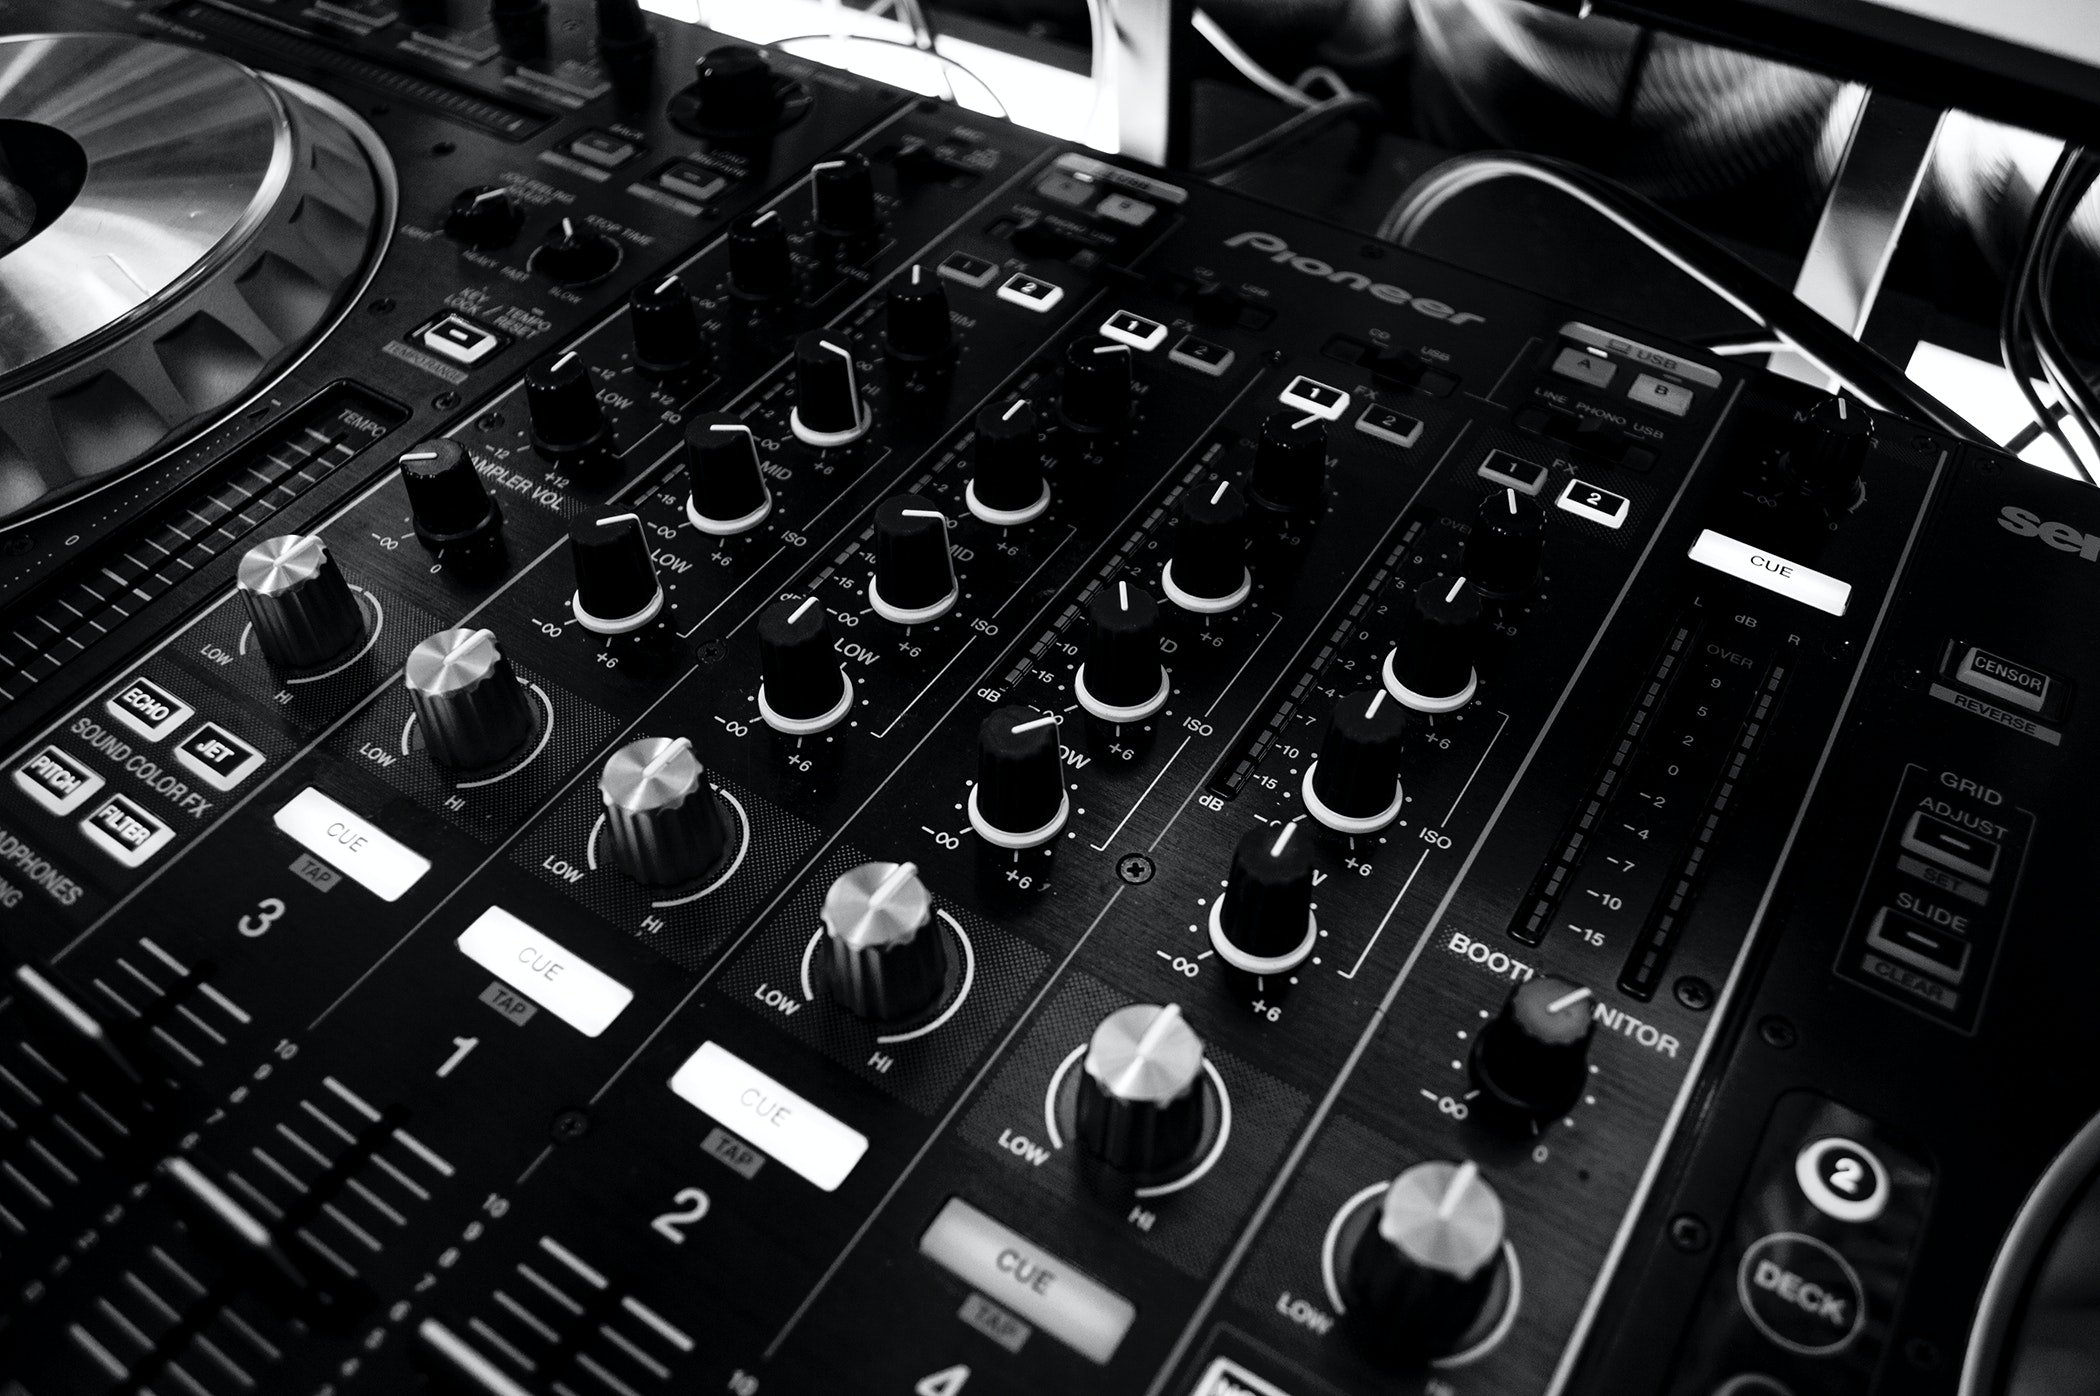
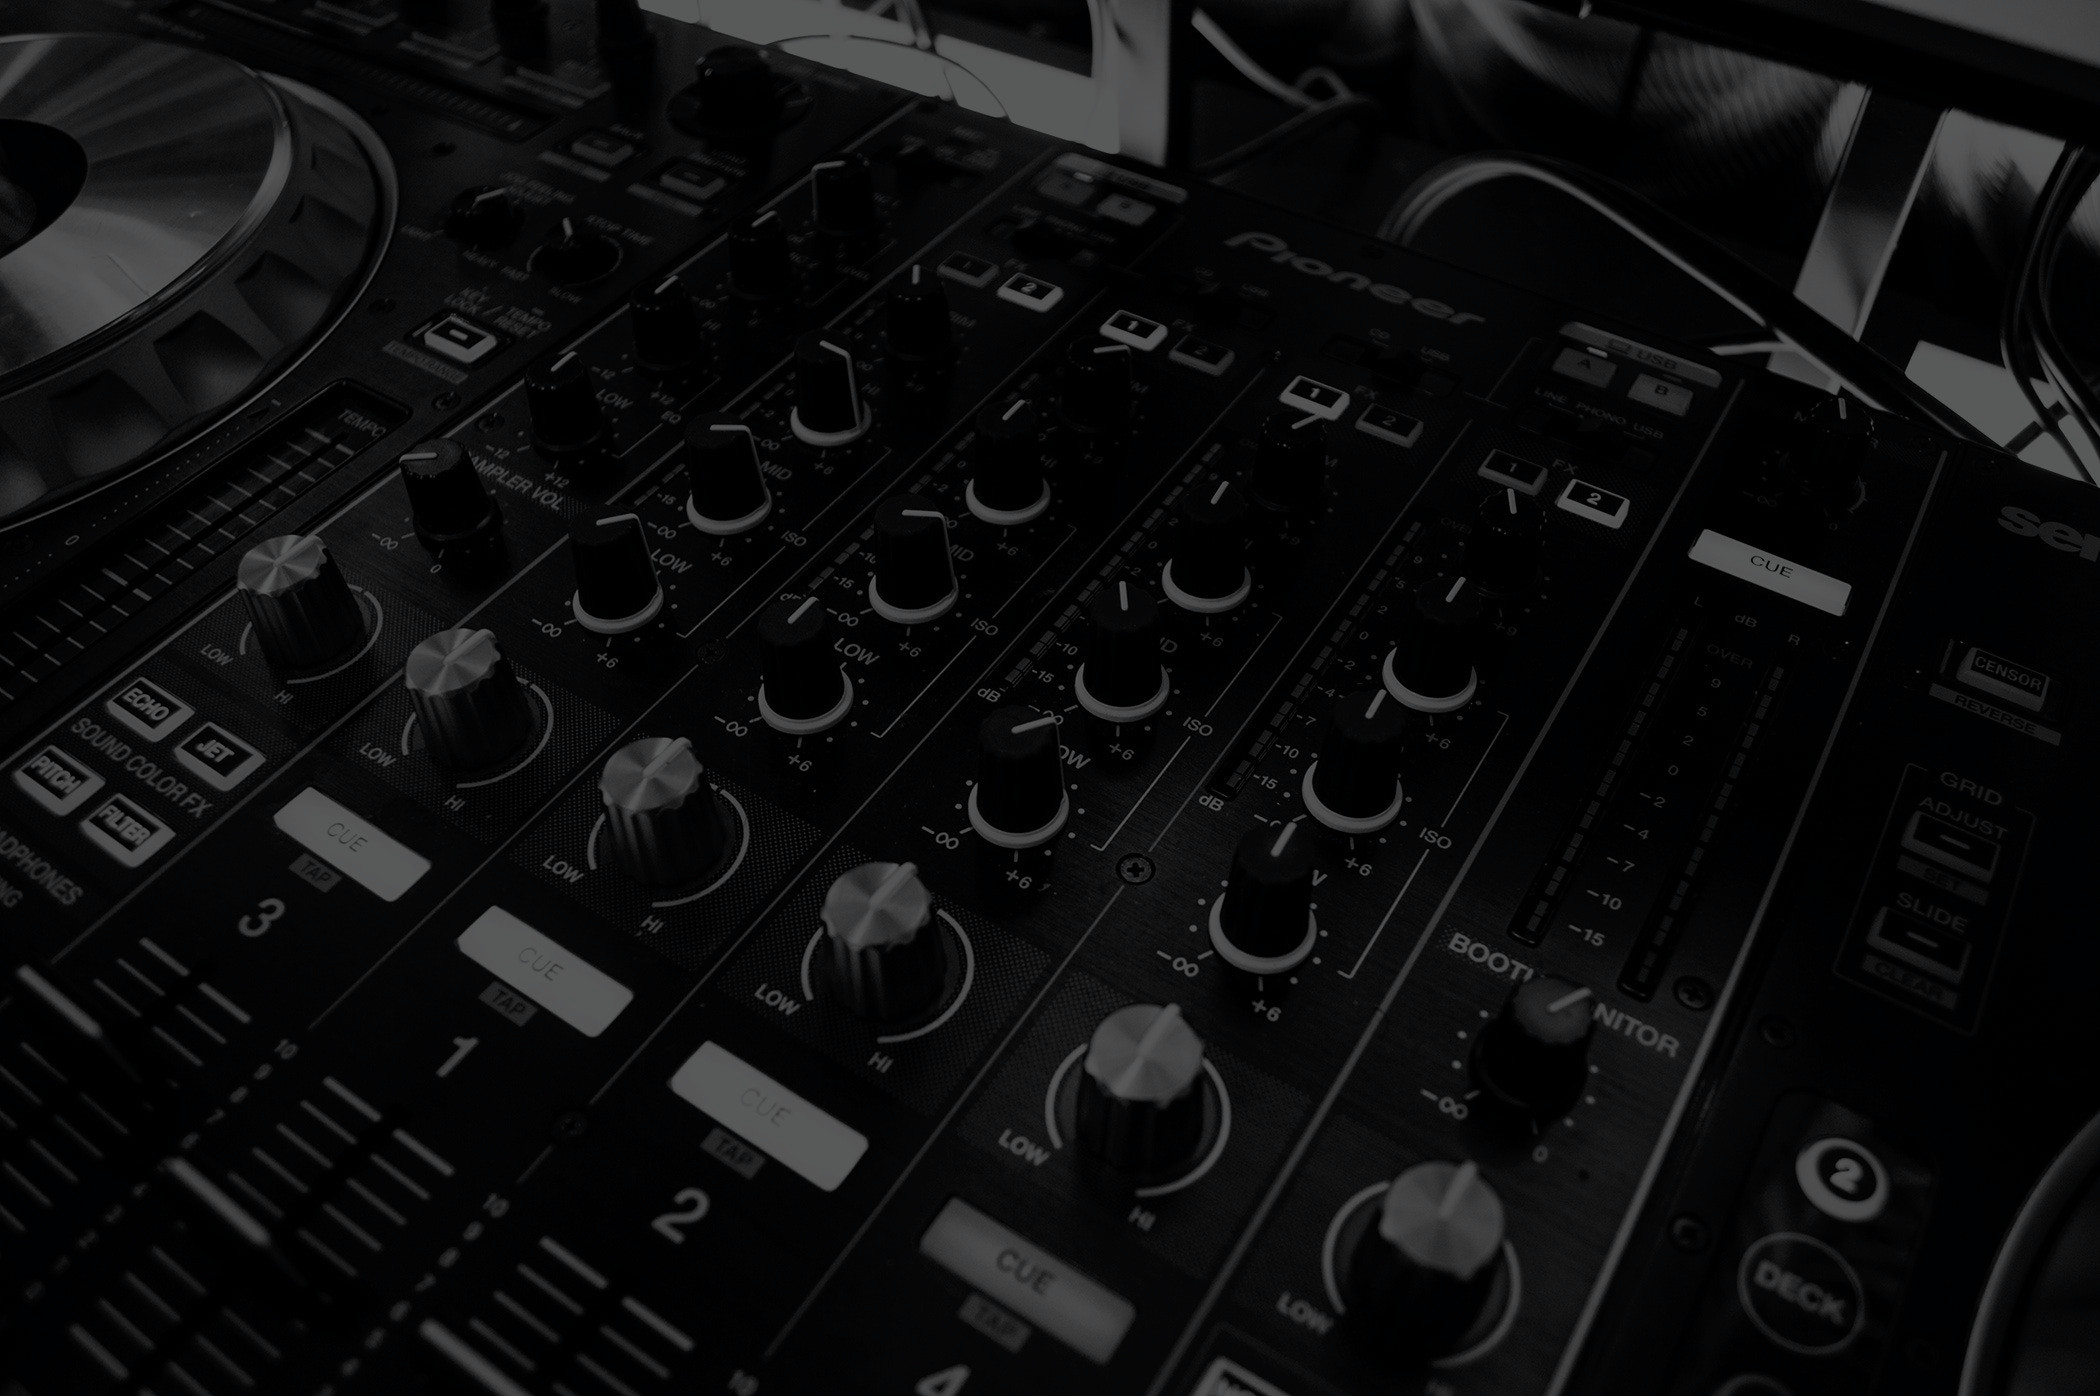
revamp styles

diff --git a/src/App.tsx b/src/App.tsx
@@ -9,6 +9,18 @@ import RoomButtons from "./components/RoomButtons";
 import { connectToRoom, createRoom } from "./redux/room/actions";
 import { GlobalState } from "./redux/store";
 
+import Container from '@material-ui/core/Container'
+import Typography from '@material-ui/core/Typography'
+
+import HelpButton from './components/HelpButton'
+
+import background from './assets/background.jpg'
+import backgroundDark from './assets/background-dark.jpg'
+import backgroundDarker from './assets/background-darker.jpg'
+import { createStyles, Theme } from "@material-ui/core";
+
+
+
 interface EnsureLoginProps {
   token?: string | null;
   children: any;
@@ -65,6 +77,33 @@ const mapStateToProps = (state: GlobalState) => ({
 const mapDispatchToProps = {
   createRoom,
   connectToRoom,
-};
+}
+
+const styles = (theme: Theme) => 
+  createStyles({
+    main: {
+      backgroundImage: `url('${background}')`,
+      height: '100%',
+      width: '100%',
+    },
+    header: {
+      textAlign: 'center',
+      marginBottom: 64,
+      fontSize: 128
+    },
+    container: {
+      padding: 64,
+      display: 'flex',
+      flexDirection: 'column',
+      alignItems: 'center',
+      color: 'white',
+    },
+    helpBtn: {
+      position: 'absolute',
+      top: 16,
+      right: 16,
+      color: 'white'
+    }
+  });
 
 export default connect(mapStateToProps, mapDispatchToProps)(App);

diff --git a/src/components/Player.tsx b/src/components/Player.tsx
@@ -17,14 +17,14 @@ class Player extends React.Component<Props, State> {
   render() {
     const { track, classes } = this.props;
     return (
-      <div>
+      <div className={classes.main}>
         <div className={classes.auxDetails}>
           <div>Here's the aux</div>
           <Link>
             {window.location.origin}/join/{this.props.roomname}
           </Link>
         </div>
-        <div className={classes.main}>
+        <div className={classes.player}>
           <div className={classes.trackInfo}>
             <img
               src={track ? track.img : emptyAlbum}
@@ -70,10 +70,10 @@ const mapDispatchToProps = {
 
 const styles = (theme: Theme) =>
   createStyles({
-    main: {
-      display: "flex",
-      flexDirection: "row",
-      "& > div": {
+    player: {
+      display: 'flex',
+      flexDirection: 'row',
+      '& > div': {
         marginLeft: 16,
         marginRight: 16,
       },

diff --git a/src/components/LoginButton.tsx b/src/components/LoginButton.tsx
@@ -53,8 +53,8 @@ class LoginButton extends React.Component<Props & RouteComponentProps> {
           <br />
           When a friend joins that room, their Spotify{" "}
           <strong>automatically syncs</strong> with yours.
-          <br />
           Tired of DJing? <strong>Pass the aux</strong> to a friend!
+          <br />
         </Typography>
       </div>
     );
@@ -95,6 +95,9 @@ const styles = (theme: Theme) =>
       fontSize: 18,
       padding: "16px 32px",
     },
+    details: {
+      fontSize: 20
+    }
   });
 
 export default connect(
